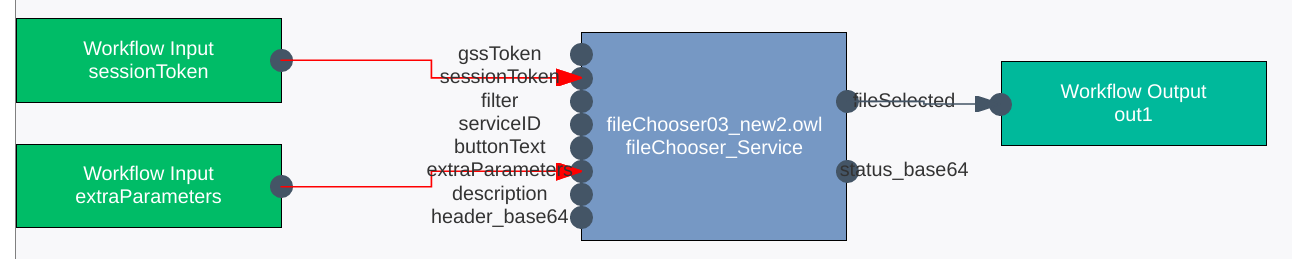
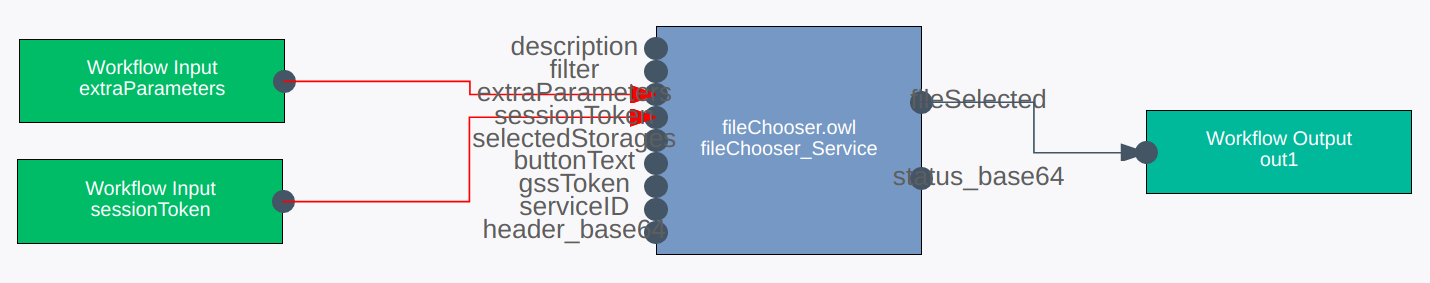
Re-brand filechooser docs to cfg

Changed region(s): [[0.0, 0.0618, 0.9907, 0.9575]]

diff --git a/workflow_creation/utilities_filechooser.md b/workflow_creation/utilities_filechooser.md
@@ -1,22 +1,22 @@
 # File selection using the File Chooser service
-Workflows in CAxMan typically communicate with one of the provided cloud
-storages. The interactions towards the files themselves are typically handled
-through GSS (Generic Storage Services), but this requires that the services
-already know where a file is stored or, alternatively, which folder it should
-upload a file inot. In order to provide a user friendly way to pick files and
-folders that will be used in a workflow, the File Chooser application has been
-developed.
+Workflows in CloudiFacturing typically communicate with one of the provided
+cloud storages. The interactions towards the files themselves are typically
+handled through GSS (Generic Storage Services), but this requires that the
+services already know where a file is stored or, alternatively, which folder it
+should upload a file inot. In order to provide a user friendly way to pick files
+and folders that will be used in a workflow, the File Chooser application has
+been developed.
 
 The File Chooser is a web application which is meant to be used as a step in
-CAxMan workflows, serving as a GUI towards the cloud storage solutions offered
-in the project. It also provides a user-friendly and natural way to obtain
-unique GSS names which can be used as input to other services later in the
-workflow chain.
+CloudiFacturing workflows, serving as a GUI towards the cloud storage solutions
+offered in the project. It also provides a user-friendly and natural way to
+obtain unique GSS names which can be used as input to other services later in
+the workflow chain.
 
 ## Integrating the file chooser in a workflow
 The file-chooser service is currently registered under the following URI:
 ```
-http://www.caxman.eu/apps/sintef/fileChooser03_new2.owl#fileChooser_Service
+http://www.cloudifacturing.eu/apps/sintef/fileChooser.owl#fileChooser_Service
 ```
 Use this URI to add the service to your workflow.
 
@@ -34,6 +34,7 @@ The complete set of parameters is explained in the following table:
 | `sessionToken` | yes | The session token used for authentication. Should be connected to the workflow input with the same name |
 | `serviceID` | no | Provided automatically by the WFM, must be left open. |
 | `extraParameters` | yes | Contains parameters such as the GSS location, must be wired to corresponding workflow input. |
+| `selectedStorages` | no | Specifies which storages to display in the file chooser. Enter a comma-separated list of identifiers. Available are: `it4i_anselm://`, `it4i_salomon://` |
 | `description` | no | base64-encoded informative description to be shown above the buttons in the web GUI. Can use html code and CSS styling. |
 | `header_base64` | no | base64-encoded text to be printed above the description in the web GUI. Can use html code and CSS styling. Default is `<h1>Select a file</h1>`|
 | `buttonText` | no | Plain-text string (no base64 encoding!) to be used for the "Select file" button. Default is "Select file". |
@@ -80,10 +81,10 @@ The context menu has the following entries for files:
 ### How to integrate a workflow in the file chooser's context menu?
 The file chooser allows to start workflows via its context menu for files. To integrate
 your workflow in this context menu, first make sure that it expects a file GSS ID as input.
-The workflow input needs to be called "fileID". This input can be added to the xml
+The workflow input needs to be called "fileID". This input name can be added to the xml
 text in the textual workflow editor:
 ```
-<input ID="main_input2" URI="http://www.caxman.eu/workflows/postProc_fc.owl#fileID"/>
+<input ID="main_input2" URI="http://company/workflows/postProc_fc.owl#fileID"/>
 ```
 Once this is in place, contact Robert from SINTEF with
 * the URI of the workflow to start,
